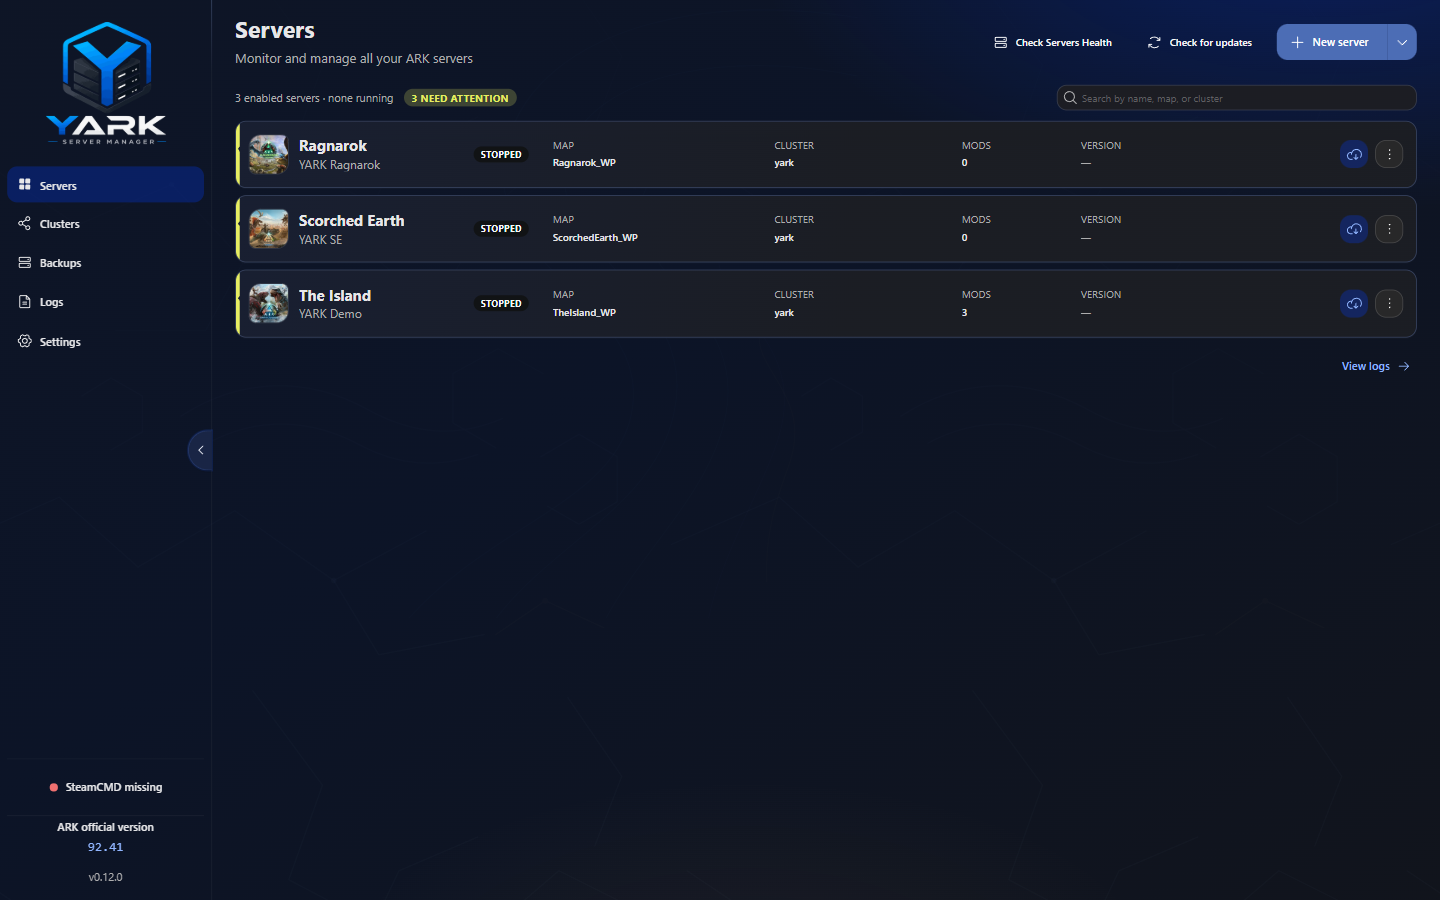
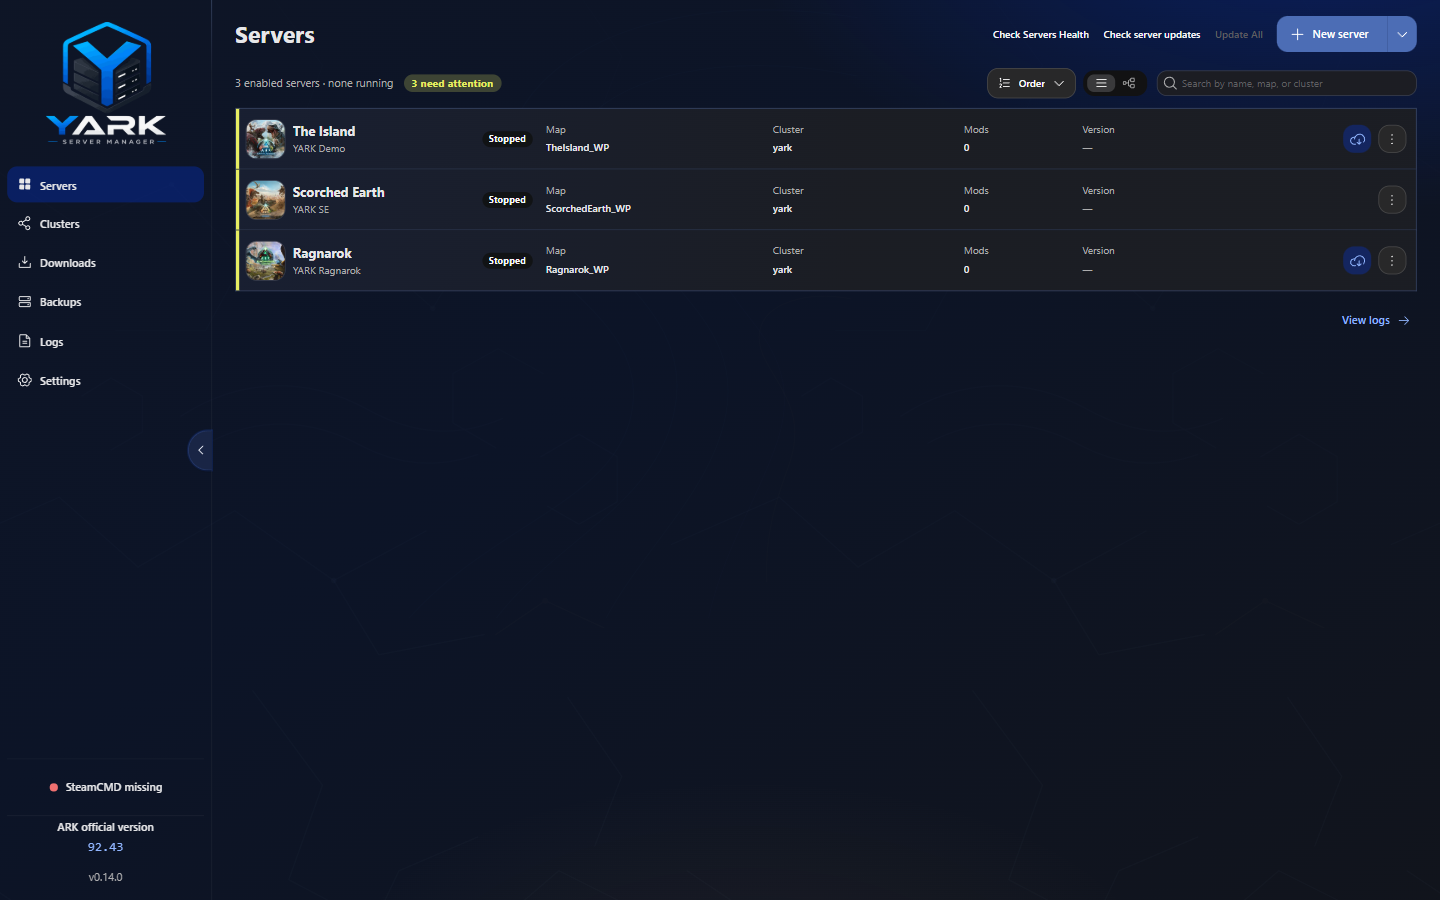
release: v0.14.0

diff --git a/src/shared/changelog.ts b/src/shared/changelog.ts
@@ -21,6 +21,44 @@ export const DEFAULT_RECENT_CHANGELOG_LIMIT = 8;
  */
 export const changelog: ChangelogEntry[] = [
   {
+    version: "0.14.0",
+    date: "2026-08-19",
+    sections: [
+      {
+        title: "Added",
+        items: [
+          "Launch tab search filters curated ASA flags by token, description, or group.",
+          "Overview Update All previews eligible stopped servers and queues safe SteamCMD updates into Downloads after confirm.",
+          "Overview and workspace server list share Order added vs A–Z sort and All servers / By cluster layout toggles.",
+          "Downloads queue page with stacked rows, Pause/Resume, console pane, and a minified footer teaser on other pages.",
+        ],
+      },
+      {
+        title: "Changed",
+        items: [
+          "Overview, Settings, Clusters, Backups, Logs, and Downloads use quieter chrome: fewer subtitles, sentence-case badges, and tighter server cards.",
+          "Overview cards show read-only queue progress; click the status line to open Downloads for pause, resume, and cancel.",
+          "Downloads queue keeps console output while paused, clears on resume, and hides internal backup phases from row copy.",
+          "Update All confirm uses Accept, drops the green Queue badge, and keeps the header enable state live while the modal is open.",
+        ],
+      },
+      {
+        title: "Security",
+        items: [
+          "Packaged builds no longer honor a YARK_DEVTOOLS env override; DevTools stay off until an unpackaged dev/preview run.",
+        ],
+      },
+      {
+        title: "Fixed",
+        items: [
+          "Downloads queue ordering, cancel/retry/resume, SteamCMD-missing blocked jobs, and recovered restart-interrupted jobs behave consistently across restarts.",
+          "Overview Update All enqueues without waiting for SteamCMD and closes the confirm modal as soon as queueing finishes.",
+          "Show server console on start applies to Auto-start with YARK and waits until the main window is shown.",
+        ],
+      },
+    ],
+  },
+  {
     version: "0.13.1",
     date: "2026-08-17",
     sections: [

diff --git a/website/src/data/screenshots.ts b/website/src/data/screenshots.ts
@@ -15,13 +15,13 @@ export function screenshotSlug(shot: Screenshot): string {
 export const screenshots: Screenshot[] = [
   {
     src: withBase("/screenshots/overview.png"),
-    alt: "YARK Windows overview listing ARK Survival Ascended server profiles with map artwork, status, and recent activity",
+    alt: "YARK Windows overview listing ARK Survival Ascended server profiles with map artwork, status, fleet sort controls, and Update All",
     caption:
-      "Servers overview — profiles with map artwork, status, and recent activity in one place.",
+      "Servers overview — sort/view controls, Update All for outdated fleets, and queue status that opens Downloads.",
   },
   {
     src: withBase("/screenshots/downloads.png"),
-    alt: "YARK Downloads queue with an active SteamCMD job, queued servers, and a paused install on Windows",
+    alt: "YARK Downloads queue with an active SteamCMD verify job, queued servers, and the live console panel on Windows",
     caption:
       "Downloads — SteamCMD install, update, and verify jobs in one queue, with Pause/Resume and a live console.",
   },
@@ -36,6 +36,12 @@ export const screenshots: Screenshot[] = [
     alt: "ASA dedicated server configuration in YARK with identity, Max players, Move installation, networking, cluster, and Auto-start",
     caption:
       "Server configuration — identity, Move installation, ports, access, cluster, and Auto-start. Mods live on the Mods tab.",
+  },
+  {
+    src: withBase("/screenshots/workspace-launch.png"),
+    alt: "YARK Launch tab filtering curated ASA command-line flags with search while showing Extra arguments and the command preview",
+    caption:
+      "Launch tab — search curated ASA flags by token, description, or group; Extra arguments and the command preview stay visible.",
   },
   {
     src: withBase("/screenshots/workspace-mods.png"),

diff --git a/website/src/data/roadmap.ts b/website/src/data/roadmap.ts
@@ -10,6 +10,9 @@ export type RoadmapItem = {
  * Prefer operator-visible product work from open issues (not CI/packaging hygiene).
  * Not a ship promise — keep wording directional. Milestones on GitHub stay authoritative.
  *
+ * Shipped in v0.14.0 (not previously listed here): Downloads queue page (#201),
+ * Overview Update All (#378), server list sort/view (#351), Launch tab search (#352),
+ * quieter operator chrome, packaged DevTools hardening.
  * Shipped on the Downloads queue branch (#201, not previously listed here): Steam-style
  * SteamCMD queue page, workspace footer teaser, Pause/Resume, Verify replace.
  * Shipped in v0.13.1 (not previously listed here): sharper getyark.com screenshot WebP,

diff --git a/docs/updates-steamcmd.md b/docs/updates-steamcmd.md
@@ -108,11 +108,11 @@ Pre-update archives use backup type `pre_update` and kinds `world` / `ini`
 
 `isServerUpdateAvailable` / `getServerUpdateState` compare **Steam builds only**. Never treat runtime `ARK Version` vs an official/live server version as an update decision — staggered ASA rollouts make those non-equivalent.
 
-Official version and official build each cache for **15 minutes** in-process (`OFFICIAL_VERSION_TTL_MS`). `servers:installation` accepts `forceOfficialCheck` to bypass (used by **Check server updates**, **Update all outdated**, and **Check installs**). The status line is also parsed for network state (`Online` / `Deploying` / `Offline`); Deploying tints the sidebar version and shows a pulsing indicator.
+Official version and official build each cache for **15 minutes** in-process (`OFFICIAL_VERSION_TTL_MS`). `servers:installation` accepts `forceOfficialCheck` to bypass (used by **Check server updates**, **Update All**, and **Check installs**). The status line is also parsed for network state (`Online` / `Deploying` / `Offline`); Deploying tints the sidebar version and shows a pulsing indicator.
 
 ### Fleet update all (#378)
 
-Overview **Update all outdated** (next to **Check server updates**) opens only when at least one outdated server is stopped, enabled, install-ready, and not blocked by Downloads. The preview lists every outdated profile with current vs official Steam build when known, plus skip reasons (running, disabled, install not ready, unknown build, or an existing files job). Confirm queues one **Update** job per eligible server through the same safe-update pipeline as per-card **Update** — jobs run sequentially in Downloads order; running servers stay skipped until stopped.
+Overview **Update All** (next to **Check server updates**) opens only when at least one outdated server is stopped, enabled, install-ready, and not blocked by Downloads. The preview lists every outdated profile with current vs official Steam build when known, plus skip reasons (running, disabled, install not ready, unknown build, or an existing files job). **Accept** queues one **Update** job per eligible server through the same safe-update pipeline as per-card **Update** — jobs run sequentially in Downloads order; running servers stay skipped until stopped. The header enable state stays live while the modal is open; the modal closes as soon as queueing finishes.
 
 ### Installation health (#57)
 
@@ -180,9 +180,9 @@ Byte/`%` detail belongs on the Downloads page, not in those lock tooltips.
 
 Spawns always pass `-language english` (plus `LANG`/`LC_ALL` env) so bootstrapper lines stay English for a single-language parser. SteamCMD otherwise follows the Windows UI language (e.g. Spanish “Descargando archivos…”). Bracket `[ N%]` still updates the percent even if OS localizes; labels/KB pairs are English-only.
 
-During **robocopy** (`sync-files`), progress is a **separate phase**: SteamCMD success may reach 100%, then the dock switches to an **indeterminate** (full striped/animated) bar with the copy label — no byte totals (robocopy runs with progress silenced). A console heartbeat every 5s confirms the job is still running. Sync uses `/MT:4` and below-normal process priority so the Electron UI keeps some disk headroom. While a job is busy, the renderer skips frequent `servers:installation` polls and refreshes the install snapshot once when the job finishes.
+During **robocopy** (`sync-files`), progress is a **separate phase**: SteamCMD success may reach 100%, then the **Downloads** active job switches to an **indeterminate** bar with the copy label — no byte totals (robocopy runs with progress silenced). A console heartbeat every 5s confirms the job is still running. Sync uses `/MT:4` and below-normal process priority so the Electron UI keeps some disk headroom. While a job is busy, the renderer skips frequent `servers:installation` polls and refreshes the install snapshot once when the job finishes.
 
-> Note: agent-context historically said “live log streaming during SteamCMD is pending.” The **console/progress push channel and dock are live**. What may still feel incomplete is richer per-file update-log streaming in the Logs UI—not the SteamCMD progress path.
+> Note: agent-context historically said “live log streaming during SteamCMD is pending.” The **console/progress push channel and Downloads page are live**. What may still feel incomplete is richer per-file update-log streaming in the Logs UI—not the SteamCMD progress path.
 
 ## SteamCMD not configured
 

diff --git a/README.md b/README.md
@@ -65,12 +65,12 @@ cloud hosting service, an ARK game launcher, or an official Studio Wildcard prod
 
 | Area | What YARK provides |
 | --- | --- |
-| Server profiles | Create, clone, enable, disable, and manage multiple servers with independent paths, maps, ports, access settings, mods, and cluster fields. **Import install** adopts an existing ASA folder (ready by default; incomplete with opt-in). |
+| Server profiles | Create, clone, enable, disable, and manage multiple servers with independent paths, maps, ports, access settings, mods, and cluster fields. **Import install** adopts an existing ASA folder (ready by default; incomplete with opt-in). Overview sort/view toggles and **Update All** queue safe fleet updates into Downloads. |
 | Lifecycle | Start, stop, restart, and force-close exact managed processes; readiness waits for RCON instead of assuming a spawned process is healthy. **Remove from YARK only** keeps the install folder, or wipe everything on delete. |
 | SteamCMD | Install, update, and verify ASA server files using a shared content cache; **Downloads** queues those jobs with Pause/Resume and a live console. |
 | Safe maintenance | Coordinate stop, recovery backups, update/verify work, conditional restart, and rollback through locked backend operations. |
 | Backups | Create, restore, export, and import world / INI archives; player join/leave archives; schedule world backups and inspect fleet health. |
-| Configuration | Edit `GameUserSettings.ini` and `Game.ini` through visual and raw editors, with a guided configuration wizard. |
+| Configuration | Edit `GameUserSettings.ini` and `Game.ini` through visual and raw editors, with a guided configuration wizard. Launch tab search filters curated ASA flags. |
 | Mods | Manage CurseForge Project IDs, metadata, enable/disable state, and launch-time `-mods=` composition without embedding the CurseForge API key. **Maps** packs: enable on Mods, then pick under Server Information → Map (Map mods / Custom…). |
 | Diagnostics | Review events, runtime output, SteamCMD history, backup activity, installation health, host-port conflicts, and log retention. |
 | Windows integration | System tray, close-to-tray, Start with Windows, Auto-start with YARK, in-app YARK updates, and Windows-aware process/file operations. |

diff --git a/docs/website.md b/docs/website.md
@@ -75,7 +75,9 @@ when you care about SEO indexing.
 - GitHub repo **About → Website** must be `https://getyark.com` (not the old
   `gabomarin.github.io/yark` Pages URL). Topics and description should match the
   product site, not leftover github.io copy.
-- Home `SoftwareApplication` JSON-LD may include `screenshot` and `featureList`.
+- Home `SoftwareApplication` JSON-LD may include `screenshot` and `featureList`
+  (`website/src/components/SeoHead.astro`). Keep `featureList` aligned with the
+  landing capability bullets when those change; there is no automated check.
   Do **not** emit `aggregateRating` / `review` without real public ratings —
   invented stars violate Google structured-data policies.
 - Favicon: ship an explicit **48×48** (and larger) PNG `rel=icon` in addition to
@@ -112,13 +114,17 @@ npm run website:screenshots
 Default output is `website/public/screenshots/` (override with `WEBSITE_SCREENSHOT_OUT`).
 Requires a prior app `npm run build`, Playwright, and a Windows GUI session.
 `WEBSITE_SCREENSHOT_ONLY=downloads` recaptures only `downloads.png` (hanging SteamCMD stub so
-Active / Queued / Paused stay visible).
+Active and Queued rows stay live — a Paused job blocks the queue, so marketing seeds omit it).
 
 The capture script **always** launches Electron with an isolated `YARK_E2E_USER_DATA`
 temp profile and seeds a public demo fleet there. It never opens your normal app
 userData, so private server names/paths cannot leak into marketing shots. Setup
 assistant shots are taken on that empty profile (via Settings → Open setup assistant)
-before the demo fleet is created. See `scripts/capture-website-screenshots.cjs`.
+before the demo fleet is created.
+
+After that first boot, the fleet is written with SQLite (`seedGalleryFleetSql` plus
+`applyDemoMapsInDb`) instead of New server / cluster UI automation, which flakes on
+Windows. See `scripts/capture-website-screenshots.cjs`.
 
 Home and the product preview use build-time **WebP** derivatives (`website/public/media/`,
 gitignored) so phones do not download 1440×900 PNGs. Widths are 640 / 960 / 1280 / **1440**

diff --git a/docs/design-system.md b/docs/design-system.md
@@ -184,7 +184,7 @@ Secondary badges (attention counts, etc.) stay for outcomes — not a second
 | --- | --- |
 | **Toast** (`notifications.show`) | Completed / failed / cancelled **operator actions** that do not need to stay on screen (Check Servers Health summary, Check server updates, SteamCMD install/update/verify, backup CRUD, prefs save fail) |
 | **Inline Alert** | **State that remains true** (files locked while updating, server running, wizard warnings, port conflicts) or confirm-modal decision context |
-| **Panel / dock** | Long-running or multi-item work (SteamCMD dock, stop progress, fleet backup alerts, Overview attention list) |
+| **Panel / dock** | Long-running or multi-item work (Downloads queue / footer teaser, stop progress, fleet backup alerts, Overview attention list) |
 | **Global AppShell banner** | Optional shell prop kept for rare app-wide hard failures; **App does not use it** for per-action IPC — prefer `showOperatorToast` / `showOperatorError` (`shared/ui/operatorToast.ts`) |
 
 Manual **Check Servers Health** ends with a toast (attention count or “all healthy”); startup **server** health scan stays silent. Quiet **YARK app** update check (~60s) toasts only when an update is available or ready to install (sidebar accent remains). SteamCMD job outcomes, `runAction` failures, and Backups page save/cleanup results use toasts, not page or AppShell banners.
@@ -221,7 +221,7 @@ sort is a temporary view; drag-to-reorder load order is enabled only while unsor
 ### 10. Elevation / motion
 
 - Panels: `--app-shadow-panel` (hairline).
-- Floating / dock: `--app-shadow-elevated` (SteamCMD dock — keep feature-local behavior).
+- Floating / dock: `--app-shadow-elevated` (Downloads footer teaser — keep feature-local behavior).
 - Motion: short transitions on selection/hover only; no decorative ambient animation in tool chrome.
 
 ### 11. Interaction density

diff --git a/CHANGELOG.md b/CHANGELOG.md
@@ -9,6 +9,8 @@ How to bump versions and cut releases: see [docs/versioning.md](docs/versioning.
 
 ## [Unreleased]
 
+## [0.14.0] - 2026-08-19
+
 ### Added
 
 - Workspace **Launch** tab search filters curated ASA flags by token, description, or group while keeping Extra arguments and the command preview visible (#352).
@@ -37,13 +39,13 @@ How to bump versions and cut releases: see [docs/versioning.md](docs/versioning.
 - Overview **Update All** server list uses native overflow so scrollbar arrows do not show when everything fits (#378).
 - Overview **Update All** confirm button label is **Accept** (#378).
 - Restart-interrupted Downloads jobs keep the last SteamCMD console output visible until Retry (#378).
+- Queued Downloads rows show the operation only (e.g. **Updating server**), not internal checkpoint phases like pre-update backup (#201).
+- **Pre-update backup** no longer appears as a duplicate Downloads row during safe updates; cancelled shadow jobs are purged on load (#201).
+- Downloads **Cancelled** rows use the same flush stacked list styling as **Queued** (#201).
 
 ### Security
 
 - Packaged YARK builds no longer honor a `YARK_DEVTOOLS` env override; DevTools stay off until you run an unpackaged dev/preview build.
-- Queued Downloads rows show the operation only (e.g. **Updating server**), not internal checkpoint phases like pre-update backup (#201).
-- **Pre-update backup** no longer appears as a duplicate Downloads row during safe updates; cancelled shadow jobs are purged on load (#201).
-- Downloads **Cancelled** rows use the same flush stacked list styling as **Queued** (#201).
 
 ### Fixed
 

diff --git a/docs/agent-context.md b/docs/agent-context.md
@@ -112,7 +112,7 @@ paths or the Notion hub URL in tracked files.
     the **current** map folder; no manual “all players” create or Players Import (#275).
   - **INI**: `retainCountIni`; manual + automatic `ini_save` after successful INI save (debounced ~2s).
   - Workspace UI: destination/schedule only on World subtab; auto-refresh (~12s) + Refresh button + `push:backups-changed` for live list updates.
-- SteamCMD progress/console streaming is live via `push:steamcmd-progress` on the **Downloads** page (footer teaser on other pages). Path/install are on **Settings**. Richer per-file update-log streaming in Logs may still feel incomplete. Full workflows: [updates-steamcmd.md](updates-steamcmd.md).
+- SteamCMD progress/console streaming is live via `push:steamcmd-progress` on the **Downloads** page (footer teaser on other pages). Path/install are on **Settings**. Overview **Update All** (#378) and server-list sort/view toggles (#351) live on the fleet **Servers** page. Richer per-file update-log streaming in Logs may still feel incomplete. Full workflows: [updates-steamcmd.md](updates-steamcmd.md).
 - Safe-update real-host checklist (Windows ASA) lives in [updates-steamcmd.md](updates-steamcmd.md#real-host-validation-windows); broader lifecycle aggregation / PR E2E gates: [e2e-validation.md](e2e-validation.md) (GitHub **#12**).
 
 ## Recommended verification

diff --git a/docs/logs.md b/docs/logs.md
@@ -177,7 +177,7 @@ Override with `YARK_USER_DATA` when needed (cloud agents, portable profiles).
 | Sidebar “Open in server” opens wrong tab | Check `logsFocus.section`; focus is cleared after first workspace render |
 | Clear did not remove update files | Events clear ≠ update-log clear — use Updates section clear/delete |
 | Seed script cannot find DB | App never launched, or wrong userData — set `YARK_USER_DATA` |
-| SteamCMD console empty in Logs | Live console is on the SteamCMD dock/progress push; Updates section shows **files** after jobs |
+| SteamCMD console empty in Logs | Live console is on the **Downloads** page (footer teaser elsewhere); Updates section shows **files** after jobs |
 | History disappeared after a few months | Retention policy (#84); check Settings → Log retention; deleted data is not recoverable |
 | Cleanup skipped a file | In use / permission — retry later; paths outside `update-logs` are never deleted |
 

diff --git a/docs/server-lifecycle.md b/docs/server-lifecycle.md
@@ -609,7 +609,7 @@ the path field (including folders already owned by another YARK profile):
 
 See also [backups.md](backups.md) (restore requires `!isActive`),
 [updates-steamcmd.md](updates-steamcmd.md) (stopped-server safe update,
-Overview **Update all outdated** fleet queue, `pre_update`, rollback, real-host validation),
+Overview **Update All** fleet queue, `pre_update`, rollback, real-host validation),
 [logs.md](logs.md) (runtime buffer from piped stdout/stderr and Saved/Logs tail;
 `npm run e2e:launch-args` asserts structured/raw tokens on Runtime `Commandline`),
 [rcon.md](rcon.md) (workspace console / players / ban list),

diff --git a/docs/visual-testing.md b/docs/visual-testing.md
@@ -137,9 +137,8 @@ At each resolution:
 
 The review must include the full screen — shell, sidebar, and adjacent panels —
 in addition to the modified component. If the change affects the server
-workspace, review at least the Server, `INI Files` (`Game.ini` /
-`GameUserSettings.ini`), Backups, and Logs tabs (mods live on the Server form;
-there is no dedicated Mods tab yet).
+workspace, review at least the Server, Launch, Mods, `INI Files` (`Game.ini` /
+`GameUserSettings.ini`), Backups, and Logs tabs.
 
 ## Helper scripts
 
